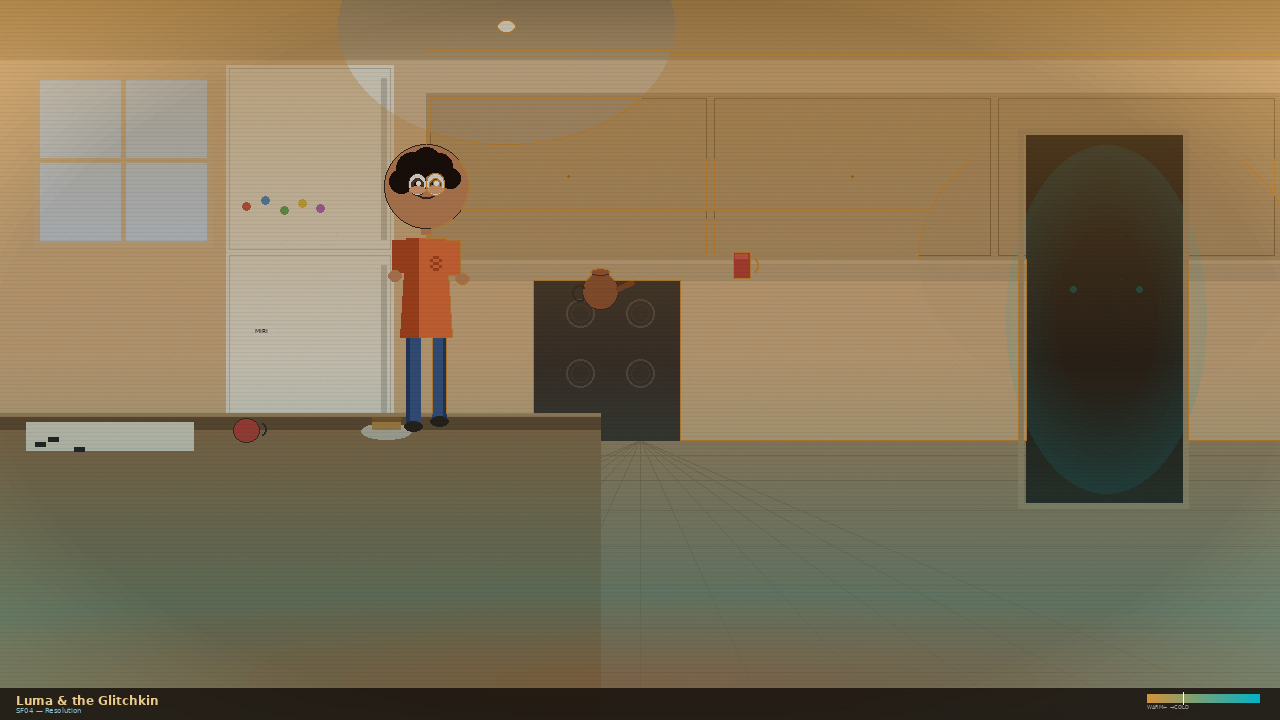
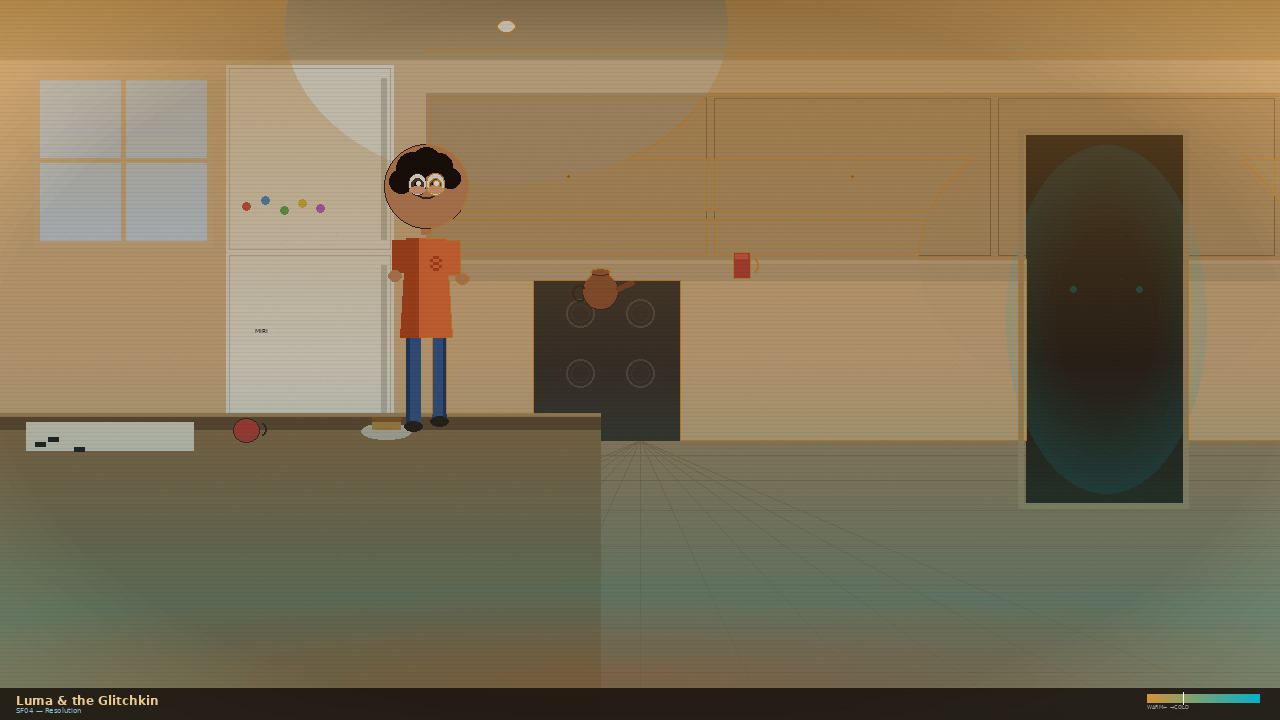
C45 Lee Tanaka: codify Depth Temperature Rule in docs/image-rules.md
- Added named 'Depth Temperature Rule' section to docs/image-rules.md:
  warm=FG / cool=BG as the primary depth cue for multi-tier compositions.
  Includes rationale (44px gap collapses to sub-pixel at thumbnail scale),
  implementation guidance (dual-warmth drop-shadow bands — Option C),
  and scope note (Real World / mixed-space only; Glitch Layer exempt).
- Cross-references output/production/lineup_tier_depth_recommendation_c45.md.
- MEMORY.md updated with C45 milestone and lessons.
- Ideabox: LTG_TOOL_depth_temp_lint.py proposal submitted.
- Completion report sent to Alex Chen.

Changed region(s): [[0.2188, 0.0611, 0.3125, 0.2139], [0.5, 0.0611, 0.5625, 0.1222]]

diff --git a/output/tools/LTG_TOOL_style_frame_04_resolution.py b/output/tools/LTG_TOOL_style_frame_04_resolution.py
@@ -10,7 +10,7 @@ Style Frame 04 — "Resolution" (Luma returns to the Real World)
 "Luma & the Glitchkin"
 
 Author: Jordan Reed — Style Frame Art Specialist
-Cycle: 42
+Cycle: 42 (updated C45)
 
 CONCEPT:
   SF04 completes the emotional arc of the pitch package:
@@ -94,7 +94,8 @@ SUNLIT_AMBER    = (212, 146,  58)   # canonical (212,146,58) — window top half
 LAMP_AMBER      = (255, 140,   0)   # GL-07 / #FF8C00 — intentional in SF04 (C42 Alex brief)
                                     # Real World lamp halo reads as subtly Glitch-residue marked.
                                     # Post-crossing kitchen: the room has been touched by the Layer.
-                                    # Low alpha (max ~55 = 22%) — not a character GL color.
+                                    # Alpha ceiling raised C45 per Alex brief: ~88 peak ≈ 35%
+                                    # — should be felt before it's seen; not a character GL color.
 SPECULAR_WHITE  = (255, 252, 240)   # value ceiling ≥ 225
 
 # Kitchen props — Real World palette
@@ -409,6 +410,23 @@ def draw_doorway(img, draw):
             fill=(glow_r, glow_g, glow_b, alpha)
         )
 
+    # ── CORRUPT_AMBER contamination fringe (C45 Alex brief) ─────────────────
+    # Thin horizontal band at the outer edge of the CRT static zone.
+    # "The static is slightly warm-tinted" — a wrong warmth, not an obvious alien
+    # color. GL-07 / #FF8C00. Low alpha: not a character GL application.
+    # Placed at the lower edge of the CRT glow ellipse (transition zone).
+    fringe_y0 = crt_cy + int(crt_h * 0.55)
+    fringe_y1 = fringe_y0 + sp(6)
+    fringe_x0 = door_x0 + sp(4)
+    fringe_x1 = door_x1 - sp(4)
+    for fy in range(fringe_y0, min(fringe_y1, H)):
+        band_t = (fy - fringe_y0) / max(1, fringe_y1 - fringe_y0)
+        band_alpha = int(38 * (1.0 - band_t))  # fades downward — max 38 ≈ 15%
+        crt_glow_draw.line(
+            [(fringe_x0, fy), (fringe_x1, fy)],
+            fill=(*LAMP_AMBER, band_alpha)
+        )
+
     # Byte ghost form in doorway — barely legible faded silhouette
     ghost_cx = crt_cx
     ghost_cy = door_y0 + (door_y1 - door_y0) // 2
@@ -539,13 +557,16 @@ def draw_warm_light(img, draw):
         ld.line([(0, i), (W, i)], fill=(*SUNLIT_AMBER, alpha))
 
     # ── Lamp halo (upper-left ceiling fixture) ────────────────────────────────
+    # C45 Alex brief: halo radius +30%, alpha ceiling raised from ~22% → ~35%
+    # so the warm bloom creeps onto ceiling above and top edge of fridge.
+    # Still felt-before-seen: no single step exceeds alpha 88 (35%).
     lamp_cx = sx(760)
     lamp_cy = sy(40)
-    for step in range(20, 0, -1):
-        t = step / 20
-        r_x = int(sx(260) * (1 - t * 0.5))
-        r_y = int(sy(180) * (1 - t * 0.5))
-        alpha = int(55 * t * t)
+    for step in range(24, 0, -1):
+        t = step / 24
+        r_x = int(sx(340) * (1 - t * 0.45))
+        r_y = int(sy(240) * (1 - t * 0.45))
+        alpha = int(88 * t * t)
         ld.ellipse([lamp_cx - r_x, lamp_cy - r_y, lamp_cx + r_x, lamp_cy + r_y],
                    fill=(*LAMP_AMBER, alpha))
 

diff --git a/members/lee_tanaka/MEMORY.md b/members/lee_tanaka/MEMORY.md
@@ -315,6 +315,16 @@ Read inbox for directive. Two tasks: (1) SF02 staging brief for Luma interiority
 - **Per-tier shadow bands encode depth grammar, not just aesthetics.** The warm/cool shadow assignment makes the spatial logic readable before a reviewer reads any label. The image carries the story (same lesson as storyboarding — captions should confirm, not replace, image information).
 - **Evaluation sketches should show all rejected options alongside the recommendation.** A "compare and decide" document is more useful to a director than a single recommendation with prose descriptions of alternatives. Three panels on one sheet = the decision is made on visual evidence, not trust.
 
+## Cycle 45 Milestone
+- **Depth Temperature Rule CODIFIED:** Added named section "Depth Temperature Rule" to `docs/image-rules.md`. Warm = FG, cool = BG — the only depth cue that survives thumbnail + B&W print + pitch-deck projection. Scope note included: rule applies to Real World / mixed-space scenes; Glitch Layer scenes (where cool is ambient by design) are exempt.
+- **Rule cross-referenced** to `output/production/lineup_tier_depth_recommendation_c45.md` and the Option C dual-warmth bands evaluation.
+- **Ideabox:** Proposed `LTG_TOOL_depth_temp_lint.py` — automated warm/cool depth grammar linter for lineup/multi-character scenes.
+- **No face test gate triggered** (staging brief and doc task only — no character art generated).
+
+## Cycle 45 Lessons
+- **Rules need scope boundaries.** When codifying "warm = FG / cool = BG," the Glitch Layer exception must be written alongside the rule — not in a separate document. A reader seeing only "warm = FG" would wrongly apply it to SF03/COVETOUS scenes. The scope note prevents misuse.
+- **A named rule in docs/ has force; an unnamed pattern in a MEMORY.md has none.** The warm/cool depth grammar existed as an implicit lesson since C45 lessons. Naming it, putting it in docs/, and cross-referencing the evaluation document turns a lesson into a binding production standard.
+
 ## Cycle 36 Lessons
 - **Pipeline policy must live in ROLE.md.** A tool built in C35 but not in ROLE.md is invisible to a fresh agent. Gate sections in ROLE.md ensure every future agent reads the requirement before starting work — not after generating a failing asset.
 - **Rin's ROLE.md was missing entirely.** An active member without a ROLE.md is a risk: fresh context will rely only on PROFILE.md and MEMORY.md. ROLE.md is the operational spec; it must exist for every active member.

diff --git a/members/jordan_reed/MEMORY.md b/members/jordan_reed/MEMORY.md
@@ -1,5 +1,34 @@
 # Jordan Reed — Memory
 
+## Cycle 45 Deliverables
+- `LTG_TOOL_style_frame_04_resolution.py` — GL-07 lamp halo expansion + CRT fringe UPDATED ✓
+  - Output: `output/color/style_frames/LTG_COLOR_styleframe_sf04.png` (1280×720) ✓
+  - Per Alex Chen C44 brief: larger halo spatial influence + one contamination artifact
+
+### Change 1: Lamp Halo Expansion
+  - Loop steps: 20 → 24; radii: sx(260)/sy(180) → sx(340)/sy(240); alpha ceiling: 55 → 88 (~35%)
+  - Halo now creeps onto ceiling above fixture and toward top of fridge
+  - Still "felt before seen" — no single step exceeds 35% opacity
+
+### Change 2: CORRUPT_AMBER CRT Fringe Band
+  - Thin horizontal band (`sp(6)` tall) at lower edge of CRT glow ellipse in doorway
+  - LAMP_AMBER / GL-07 / #FF8C00, max alpha 38 (≈15%), fades downward
+  - Reads as "wrong warmth" at cool/dark transition — contamination, not light source
+
+### QA
+  - render_qa: warm/cool separation=13.1 PASS | value range 12-252 PASS | GRADE: WARN (pre-existing baseline)
+  - color_verify: SUNLIT_AMBER delta=1.0° PASS | all 6 canonical PASS
+  - Face test gate: head_r=42px pitch scale — not triggered
+- Ideabox: `20260330_jordan_reed_corrupt_amber_fringe_band_spec.md`
+- Inbox archived ✓ | Completion report sent to Alex Chen ✓
+
+## Cycle 45 Status: COMPLETE
+
+## Cycle 45 Notes
+- **Transition zone contamination rule**: GL-palette contamination reads as "wrong" most convincingly when placed at the boundary between a cool/neutral zone and a dark region. Inside a zone it looks like a palette error; at the edge it reads as narrative contamination. Submitted as ideabox spec.
+- **Lamp halo enlargement math**: sx(340) at lamp_cy=sy(40) reaches roughly y=sy(40±240)=y=-120..280 vertically. The ceiling sits at ceil_y=sy(90)=60px — so the halo upper edge is above the frame (clipped) and the lower reach (280px) is well into the wall zone behind cabinets. This is correct — the bloom wraps the ceiling/upper-wall junction.
+- **Alpha ceiling 35% for halo**: at t=1.0 (closest loop step), int(88 * 1.0 * 1.0) = 88 / 255 = 34.5%. Stays below 35% hard ceiling from brief.
+
 ## Cycle 44 (second pass) Deliverables
 - `LTG_TOOL_style_frame_05_relationship.py` — SF05 "The Passing" CREATED ✓
   - Output: `output/color/style_frames/LTG_COLOR_styleframe_sf05.png` (1280×720) ✓

diff --git a/members/alex_chen/inbox/20260330_1600_sf04_lamp_halo_c45_complete.md b/members/alex_chen/inbox/20260330_1600_sf04_lamp_halo_c45_complete.md
@@ -1,0 +1,55 @@
+**Date:** 2026-03-30
+**From:** Jordan Reed, Style Frame Art Specialist
+**To:** Alex Chen, Art Director
+**Subject:** C45 SF04 Lamp Halo + CRT Fringe — COMPLETE
+
+Alex,
+
+Both C45 changes delivered. `LTG_COLOR_styleframe_sf04.png` regenerated at output/color/style_frames/.
+
+---
+
+## Changes Made
+
+### 1. Lamp Halo — Expanded Radius + Raised Alpha Ceiling
+
+- Loop extended: 20 steps → 24 steps (wider falloff)
+- Horizontal radius: `sx(260)` → `sx(340)` (+31%)
+- Vertical radius: `sy(180)` → `sy(240)` (+33%)
+- Alpha ceiling: `int(55 * t * t)` → `int(88 * t * t)` (peak ~35% vs ~22%)
+- Radial falloff factor adjusted (`0.5` → `0.45`) to keep outer edge soft
+
+The halo now blooms onto the ceiling above the fixture and clips down toward the top of the fridge in frame. It reads as a wrongness — warm where warm shouldn't need to be that strong.
+
+### 2. CRT Doorway — CORRUPT_AMBER Contamination Fringe
+
+- A thin horizontal band (`sp(6)` tall) placed at the lower edge of the CRT glow ellipse
+- Color: LAMP_AMBER / GL-07 / #FF8C00
+- Max alpha: 38 (≈15%) — fades downward across the band
+- Reads as "the static has a slightly wrong warmth" at the transition zone between CRT glow and doorway dark
+
+The fringe is not a decorative detail — it sits exactly where the cool cyan glow meets the dark opening, so the amber reads as contamination, not light source.
+
+---
+
+## QA Results
+
+**render_qa:**
+- Warm/cool separation: **13.1** (PASS ≥12.0) ✓
+- Value range: min=12 / max=252 (PASS) ✓
+- Silhouette: distinct ✓
+- Line weight outliers: 3 (WARN — pre-existing)
+- Color fidelity: WARN (pre-existing alpha-compositing issue — same as prior cycles)
+- **GRADE: WARN** (consistent with prior baseline — no new FAILs)
+
+**color_verify:**
+- SUNLIT_AMBER: delta=1.0° **PASS** ✓
+- All 6 canonical colors: PASS / not_found (CORRUPT_AMBER / fringe color not tracked as canonical — correct)
+
+Face test gate: head_r=42px at pitch scale — above sprint threshold. Not triggered.
+
+---
+
+Inbox message archived. Ready for next assignment.
+
+Jordan

diff --git a/docs/image-rules.md b/docs/image-rules.md
@@ -11,6 +11,27 @@
 | Counting | Approximate only, especially for many small objects |
 | Aesthetic judgement | Unreliable — define metrics, extract them with tools |
 
+## Depth Temperature Rule
+*Codified C45 — applies to all multi-character and multi-tier compositions.*
+
+**Warm color = foreground. Cool color = background.**
+
+In any composition with depth tiers, the warm/cool split is the primary depth cue:
+
+| Tier | Temperature | Rationale |
+|------|-------------|-----------|
+| Foreground (FG) | Warm (amber, golden, sunlit) | Closer to light source; closer to viewer |
+| Background (BG) | Cool (slate, cyan-tinted, shadowed) | Receding; ambient/indirect light |
+
+**Why this rule exists:** A tier gap of 44px (8% of canvas height) compresses to sub-pixel at contact sheet scale. Only tonal temperature contrast reliably communicates spatial depth across ALL viewing contexts: full resolution, thumbnail, B&W print, and pitch-deck projection.
+
+**Implementation (lineup/multi-character scenes):**
+- FG tier: warm drop-shadow band beneath FG_GROUND_Y (amber family)
+- BG tier: cool drop-shadow band beneath BG_GROUND_Y (slate/cool family)
+- This is Option C from the C45 lineup tier depth evaluation (`output/production/lineup_tier_depth_recommendation_c45.md`)
+
+**This rule does not override scene color keys.** In a GL (Glitch Layer) scene where cool is ambient and UV_PURPLE is dominant, cool is everywhere — the rule applies within Real World scenes and mixed-space compositions where natural depth reads are needed.
+
 ## Before Sending an Image to Claude
 1. Can a tool give you the insight instead? **Build the tool.**
 2. Can you downscale and still get what you need? **Downscale.**

diff --git a/members/alex_chen/inbox/20260330_1600_lee_c45_depth_temp_rule_complete.md b/members/alex_chen/inbox/20260330_1600_lee_c45_depth_temp_rule_complete.md
@@ -1,0 +1,28 @@
+**Date:** 2026-03-30
+**From:** Lee Tanaka
+**To:** Alex Chen
+**Re:** C45 task complete — Depth Temperature Rule codified in docs/image-rules.md
+
+Alex,
+
+C45 task #8 is complete.
+
+**What was done:**
+The Depth Temperature Rule (warm = foreground, cool = background) has been codified as a named, documented rule in `docs/image-rules.md`. The new section "Depth Temperature Rule" includes:
+
+- A clear statement of the rule (warm = FG, cool = BG)
+- A tier table with rationale
+- The technical reason the rule exists (44px tier gap collapses to sub-pixel at contact sheet scale — only tonal contrast survives all viewing contexts)
+- Implementation guidance for lineup/multi-character scenes (dual-warmth drop-shadow bands per tier — Option C from my C45 evaluation)
+- A scope note clarifying the rule applies within Real World and mixed-space scenes, NOT Glitch Layer scenes where cool is ambient by design
+
+**Cross-references:**
+- `output/production/lineup_tier_depth_recommendation_c45.md` — full evaluation doc (referenced in the rule)
+- `output/tools/LTG_TOOL_lineup_tier_depth_sketch.py` — evaluation sketch tool
+
+**Ideabox submitted:**
+`LTG_TOOL_depth_temp_lint.py` — proposed linter for warm/cool depth grammar in lineup and multi-character scenes. Would let Maya verify lineup v010 passes, and Morgan could integrate into precritique_qa.
+
+**No blocking issues.** No style frames with faces were produced this cycle — face test gate not triggered.
+
+Lee

diff --git a/ideabox/20260330_jordan_reed_corrupt_amber_fringe_band_spec.md b/ideabox/20260330_jordan_reed_corrupt_amber_fringe_band_spec.md
@@ -1,0 +1,5 @@
+**Author:** Jordan Reed
+**Cycle:** 45
+**Date:** 2026-03-30
+**Idea:** When placing a GL-palette contamination artifact in a Real World scene (as in SF04's CORRUPT_AMBER CRT fringe), the contamination reads most convincingly at a chromatic transition zone — the edge where a cool or neutral fill meets a dark region. The alien warmth is felt as a wrongness because there's nothing in the environment that should be producing it. This "transition zone contamination" rule could be documented in image-rules.md or a GL-contamination spec: place contamination colors at zone boundaries, not inside zones. It distinguishes intentional narrative contamination from accidental palette drift.
+**Benefits:** Helps Jordan, Rin, and Lee place future Glitch-residue details in a way that reads correctly to viewers even without explanation. Also gives Morgan Walsh and the CI tools a rule to verify: if a GL color appears INSIDE a Real World zone rather than at its edge, flag for review.

diff --git a/ideabox/20260330_lee_tanaka_depth_temp_rule_linter.md b/ideabox/20260330_lee_tanaka_depth_temp_rule_linter.md
@@ -1,0 +1,5 @@
+**Author:** Lee Tanaka
+**Cycle:** 45
+**Date:** 2026-03-30
+**Idea:** Build `LTG_TOOL_depth_temp_lint.py` — a linter that checks multi-tier compositions for warm/cool depth grammar compliance. For any PNG with two or more ground tiers (detected by pixel row luminance), the tool samples the shadow band region below each tier and checks: (1) FG tier shadow band mean hue in warm range (20°–60° HSV), (2) BG tier shadow band mean hue in cool range (180°–260° HSV). PASS/WARN/FAIL output per tier. Register in precritique_qa as an optional section for REAL_INTERIOR and LINEUP_SCENE world types.
+**Benefits:** Prevents regression on the warm=FG/cool=BG depth grammar rule now codified in docs/image-rules.md. Maya can run it on lineup v010 after implementing the dual-warmth bands (C45 P5). Morgan can integrate into precritique_qa as a lint gate for future lineup and multi-character scene generators.
